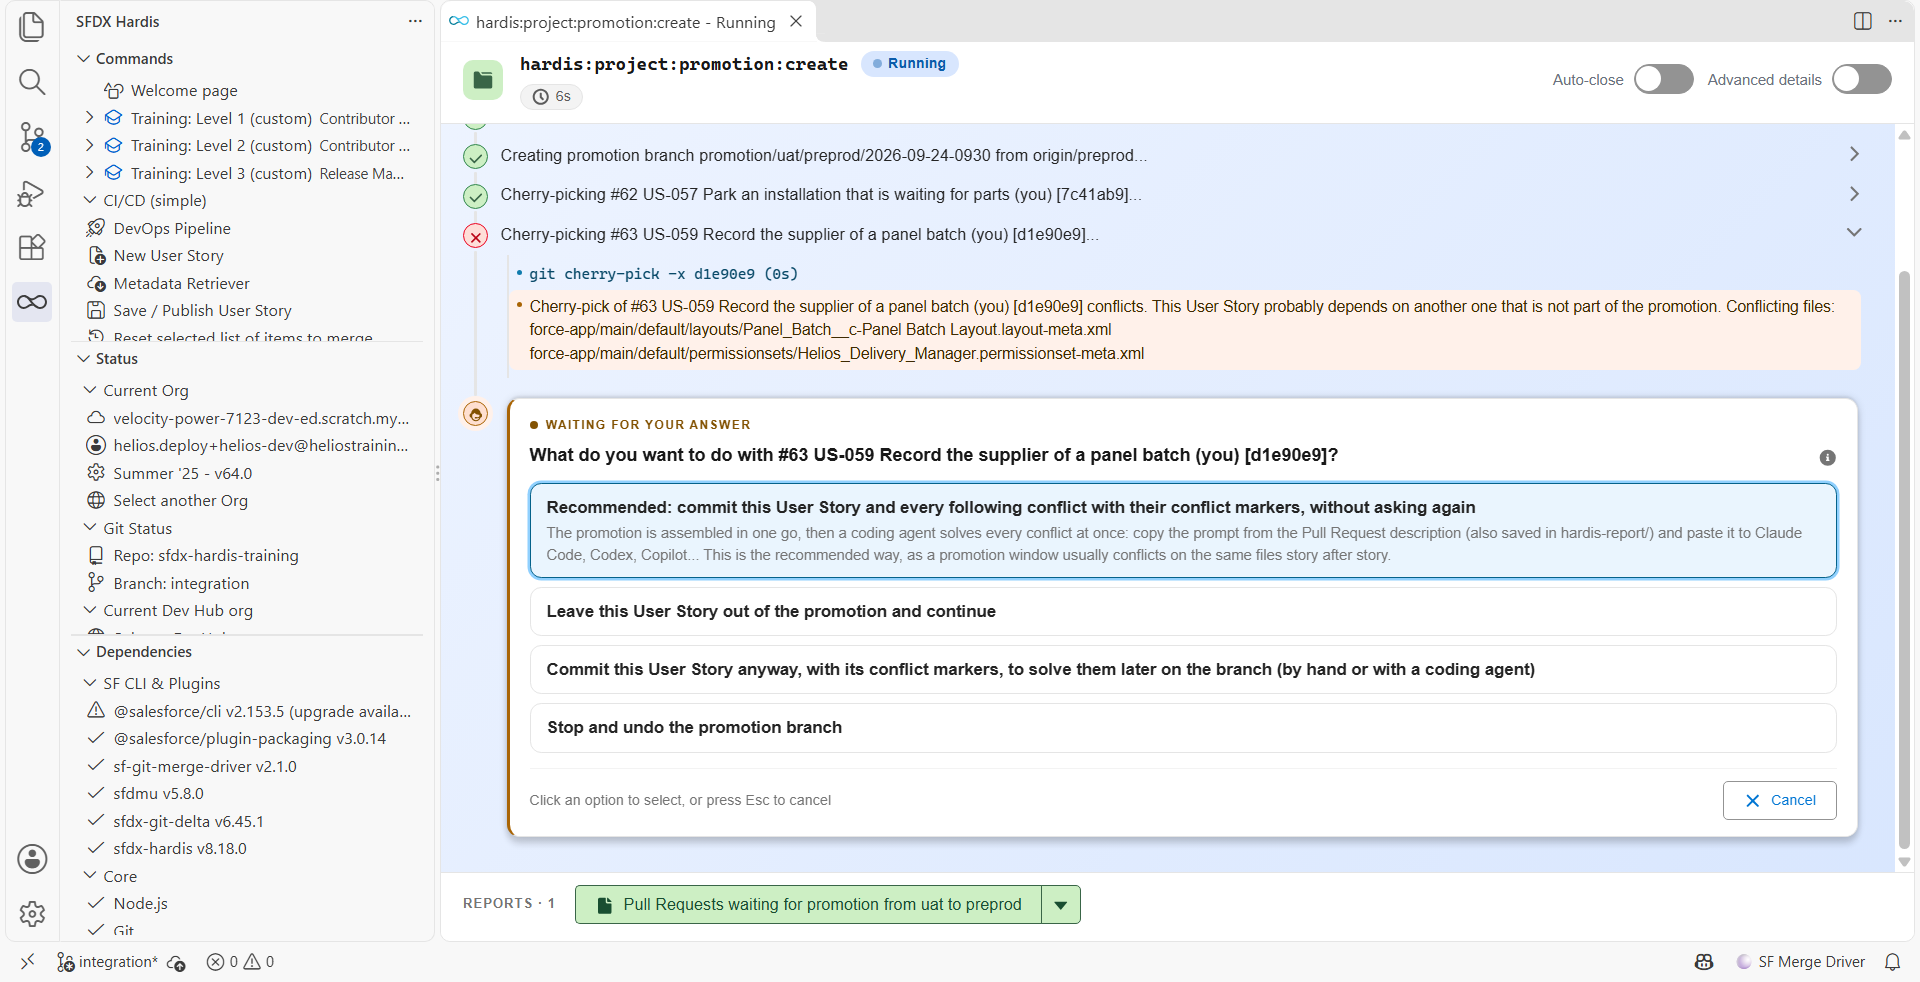
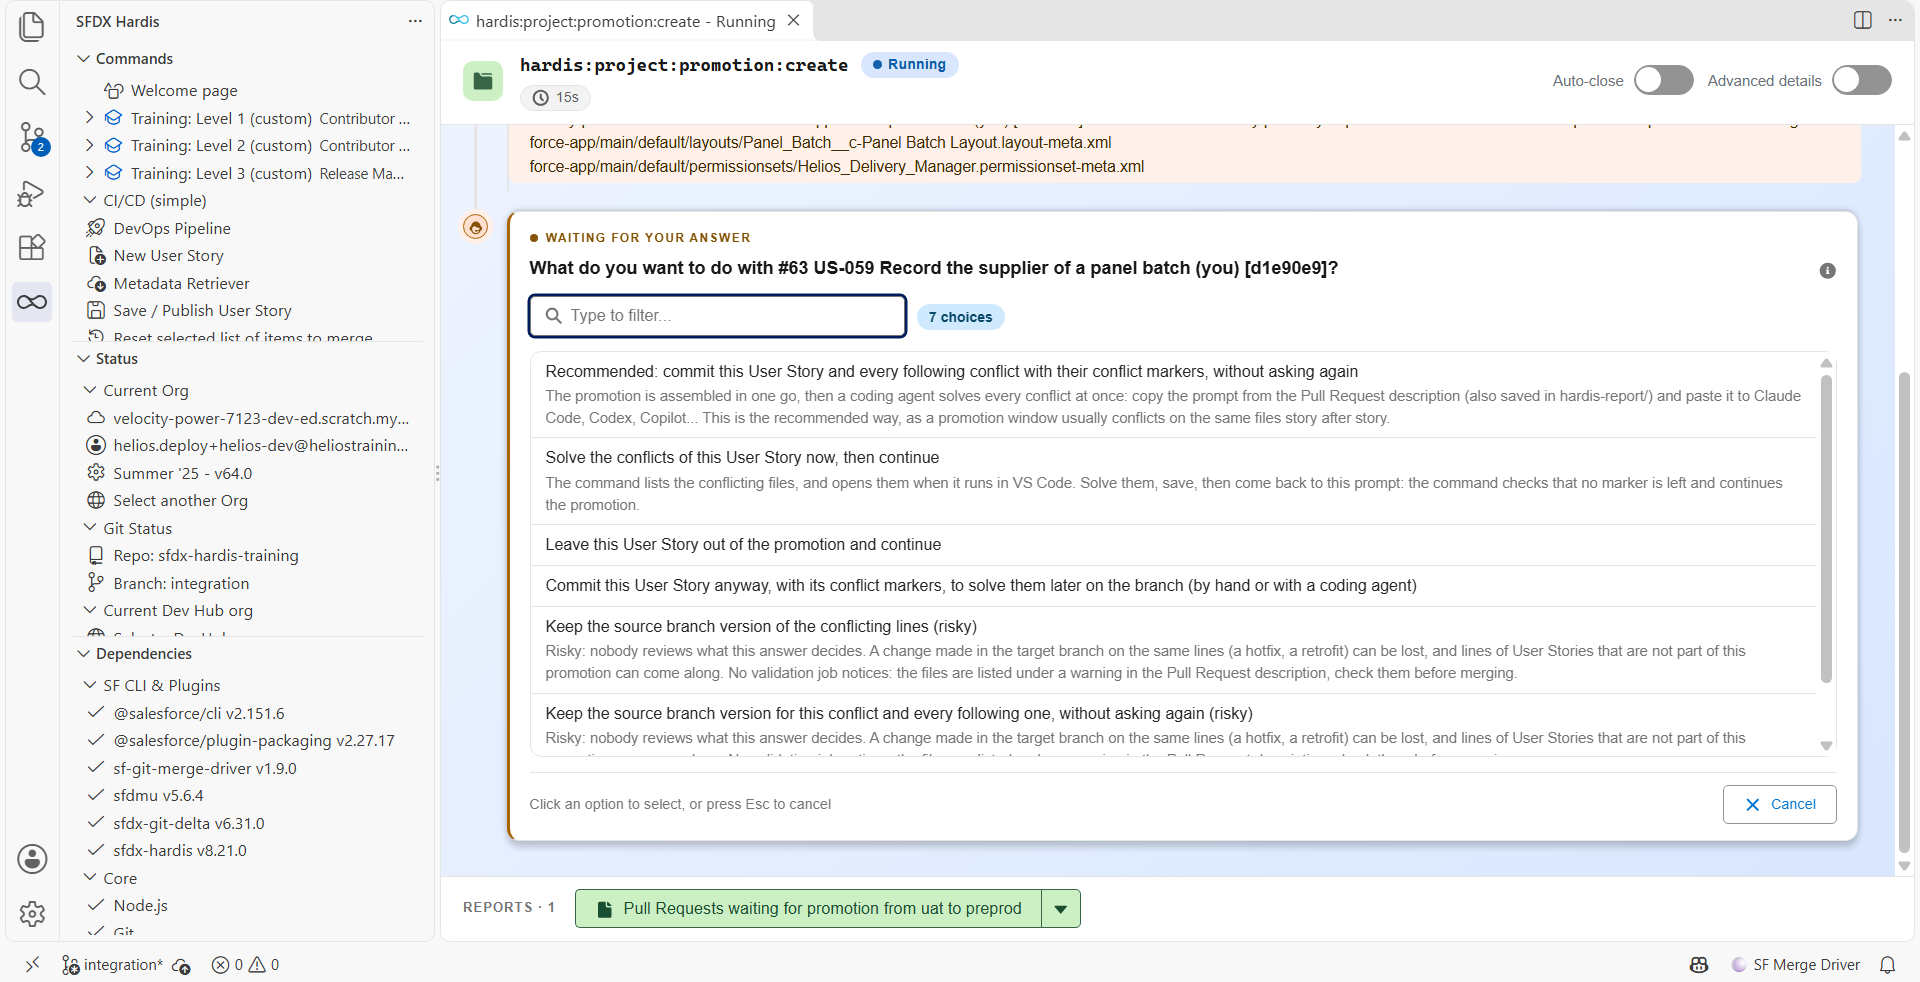
Lab 3.10: the conflict question has seven answers, what the risky ones would do this week

diff --git a/labs/fr/level-3-release-manager/3-10-promote-a-subset-with-promotion-branches.md b/labs/fr/level-3-release-manager/3-10-promote-a-subset-with-promotion-branches.md
@@ -5,7 +5,7 @@ description: "Transportez trois User Stories approuvées sur cinq de uat vers pr
 level: 3
 lab: 10
 lang: fr
-source_rev: "79f10416e7c6c09eb6de8aa434cfd94fa40163ae"
+source_rev: "c655e98c1bab331bfc47db9b9e5d869a4ee43e32"
 screenshots:
   - annotated/vscode/welcome-custom-menu-3
   - annotated/vscode/pipeline-config-danger--promotion-branches
@@ -283,7 +283,7 @@ vu US-058.
 
 #### À faire : répondre à la question du conflit
 
-1. La commande demande quoi faire d'US-059, et propose quatre réponses **(1)**. Prenez la première,
+1. La commande demande quoi faire d'US-059, et propose sept réponses **(1)**. Prenez la première,
    **Recommended: commit this User Story and every following conflict with their conflict markers,
    without asking again**
 
@@ -297,9 +297,17 @@ vu US-058.
 #### Pourquoi cette réponse
 
 La promotion est assemblée en entier, conflit compris, et vous le résolvez en une passe sur la
-branche ensuite, à l'étape 6. Les trois autres réponses sont pour d'autres semaines : laisser la
-story de côté, committer celle-ci avec ses marqueurs mais redemander au prochain conflit, ou tout
-arrêter et tout défaire.
+branche ensuite, à l'étape 6. Les autres réponses sont pour d'autres semaines : résoudre ce conflit
+tout de suite dans l'éditeur pendant que la commande attend, laisser la story de côté, committer
+celle-ci avec ses marqueurs mais redemander au prochain conflit, ou tout arrêter et tout défaire.
+
+Les deux réponses marquées **(risky)** gardent le côté `uat` de chaque ligne en conflit, et personne
+ne relit ce qu'elles ont décidé. Ici, elles garderaient la ligne et le droit Warranty Years que
+l'étape 6 supprime à la main, et qui appartiennent à US-058, une story que cette promotion laisse
+de côté. Cette semaine, la validation le verrait quand même, parce que `preprod` n'a pas de champ
+`Warranty_Years__c` et que le déploiement échoue. Avec un champ qui existe déjà dans `preprod`,
+rien ne le verrait : la Pull Request liste les fichiers sous un avertissement, et cet avertissement
+est la seule trace.
 
 Le log continue jusqu'au bout :
 

diff --git a/labs/en/level-3-release-manager/3-10-promote-a-subset-with-promotion-branches.md b/labs/en/level-3-release-manager/3-10-promote-a-subset-with-promotion-branches.md
@@ -274,7 +274,7 @@ top of US-058, and `preprod` has never seen US-058.
 
 #### Do: answer the conflict question
 
-1. The command asks what to do with US-059, and offers four answers **(1)**. Take the first one,
+1. The command asks what to do with US-059, and offers seven answers **(1)**. Take the first one,
    **Recommended: commit this User Story and every following conflict with their conflict markers,
    without asking again**
 
@@ -288,8 +288,16 @@ top of US-058, and `preprod` has never seen US-058.
 #### Why this answer
 
 The promotion is assembled whole, conflict included, and you solve it in one pass on the branch
-afterwards, in step 6. The other three answers are for other weeks: leave the story out, commit this
-one with its markers but ask again on the next conflict, or stop and undo everything.
+afterwards, in step 6. The other answers are for other weeks: solve this conflict now in the editor
+while the command waits, leave the story out, commit this one with its markers but ask again on the
+next conflict, or stop and undo everything.
+
+The two answers marked **(risky)** keep the `uat` side of every conflicting line, and nobody reads
+what they decided. Here they would keep the Warranty Years row and grant that step 6 deletes by
+hand, which belong to US-058, a story this promotion leaves behind. This week the validation would
+still catch it, because `preprod` has no `Warranty_Years__c` field and the deployment fails. With a
+field that already exists in `preprod`, nothing would: the Pull Request lists the files under a
+warning, and that warning is the only trace.
 
 The log goes on to the end:
 

diff --git a/CHANGELOG.md b/CHANGELOG.md
@@ -3,6 +3,10 @@
 What changed in the course, for learners and trainers. The course has no versions: each section is
 a day, newest first, and a change goes under the date of the day it is made.
 
+## 2026-11-05
+
+- Lab 3.10: the conflict question of the promotion shows its seven answers, including the new "solve now" and the two risky "keep the source version" ones, and the lab explains what those would have done to this week's promotion.
+
 ## 2026-11-02
 
 - Guinea Run: pick a nickname and a guinea pig once, after your first world, and every new best score goes to the Hall of Fame on its own, with no GitHub account and nothing else about you stored.
